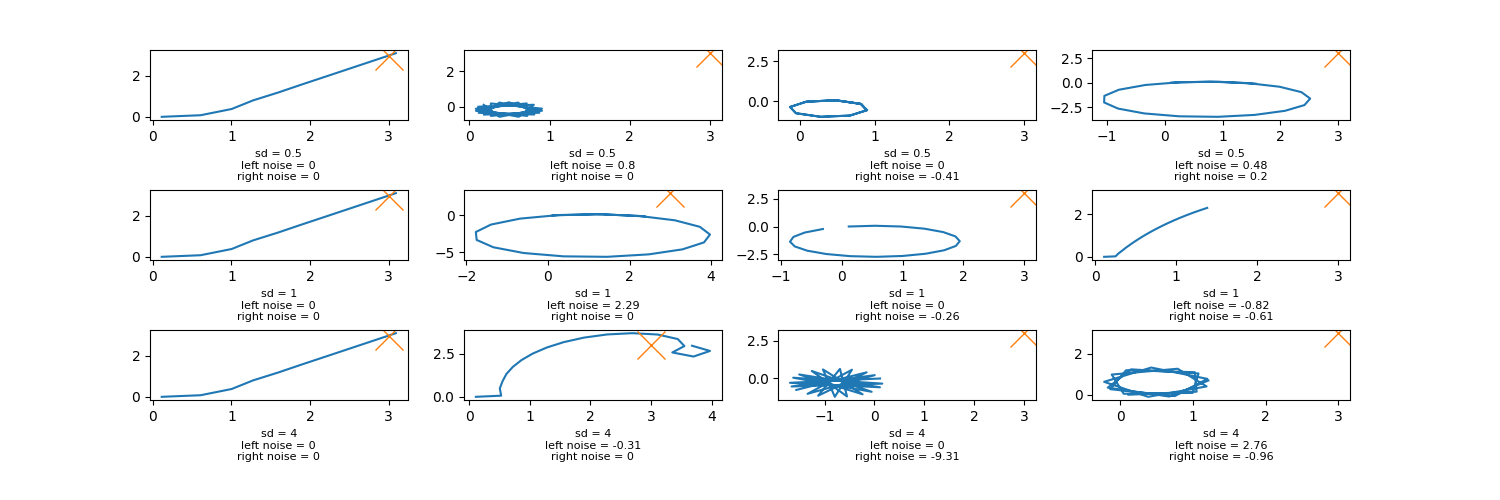
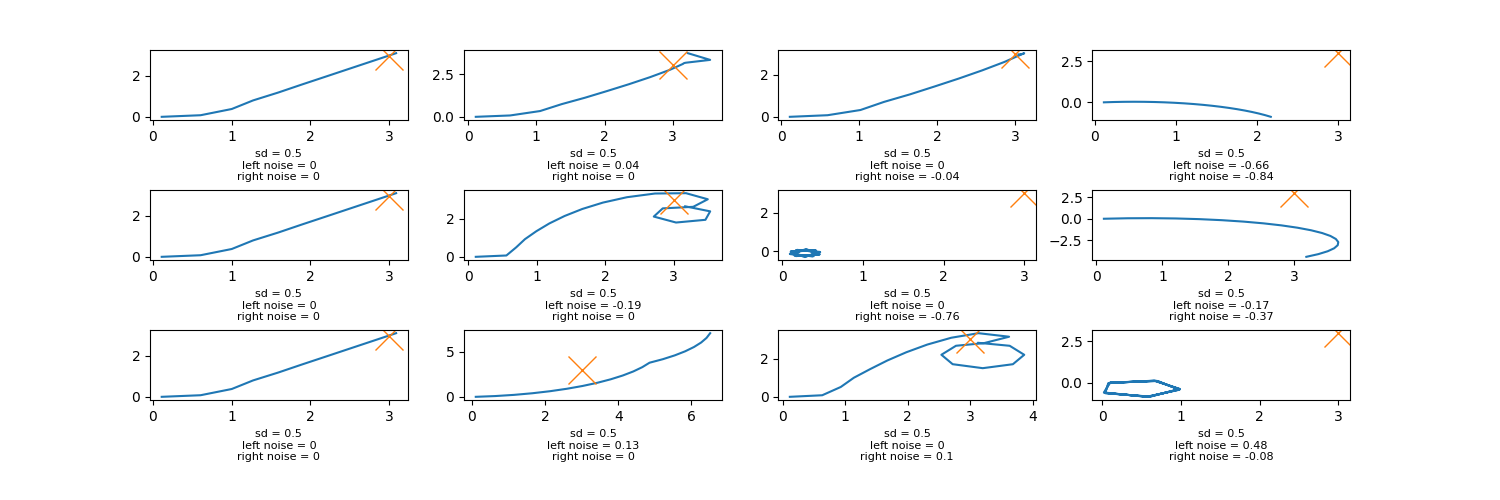
Np

diff --git a/Exercises/MotionControl/motioncontrolV2.py b/Exercises/MotionControl/motioncontrolV2.py
@@ -1,8 +1,9 @@
 import math
-import time
-import matplotlib
 import random
-import matplotlib.pyplot as plt 
+import time
+
+import matplotlib
+import matplotlib.pyplot as plt
 
 # Global Variables
 TRACK_WIDTH = 0.16
@@ -95,9 +96,10 @@ def main():
     fig.tight_layout(h_pad = 5)
     axs = axs.flatten()
     plt.subplots_adjust(hspace=1, top=0.9, bottom=0.2, left=0.1, right=0.9)
+    SD = [0.5, .5, .5]
+
 
     for j in range(3):
-        SD = [0.5, 1, 4]
         args = [(0, 0), (round(random.normalvariate(sigma=SD[j]), 2), 0), (0, round(random.normalvariate(sigma=SD[j]), 2)), (round(random.normalvariate(sigma=SD[j]), 2), round(random.normalvariate(sigma=SD[j]), 2))]
         print(args)
 
